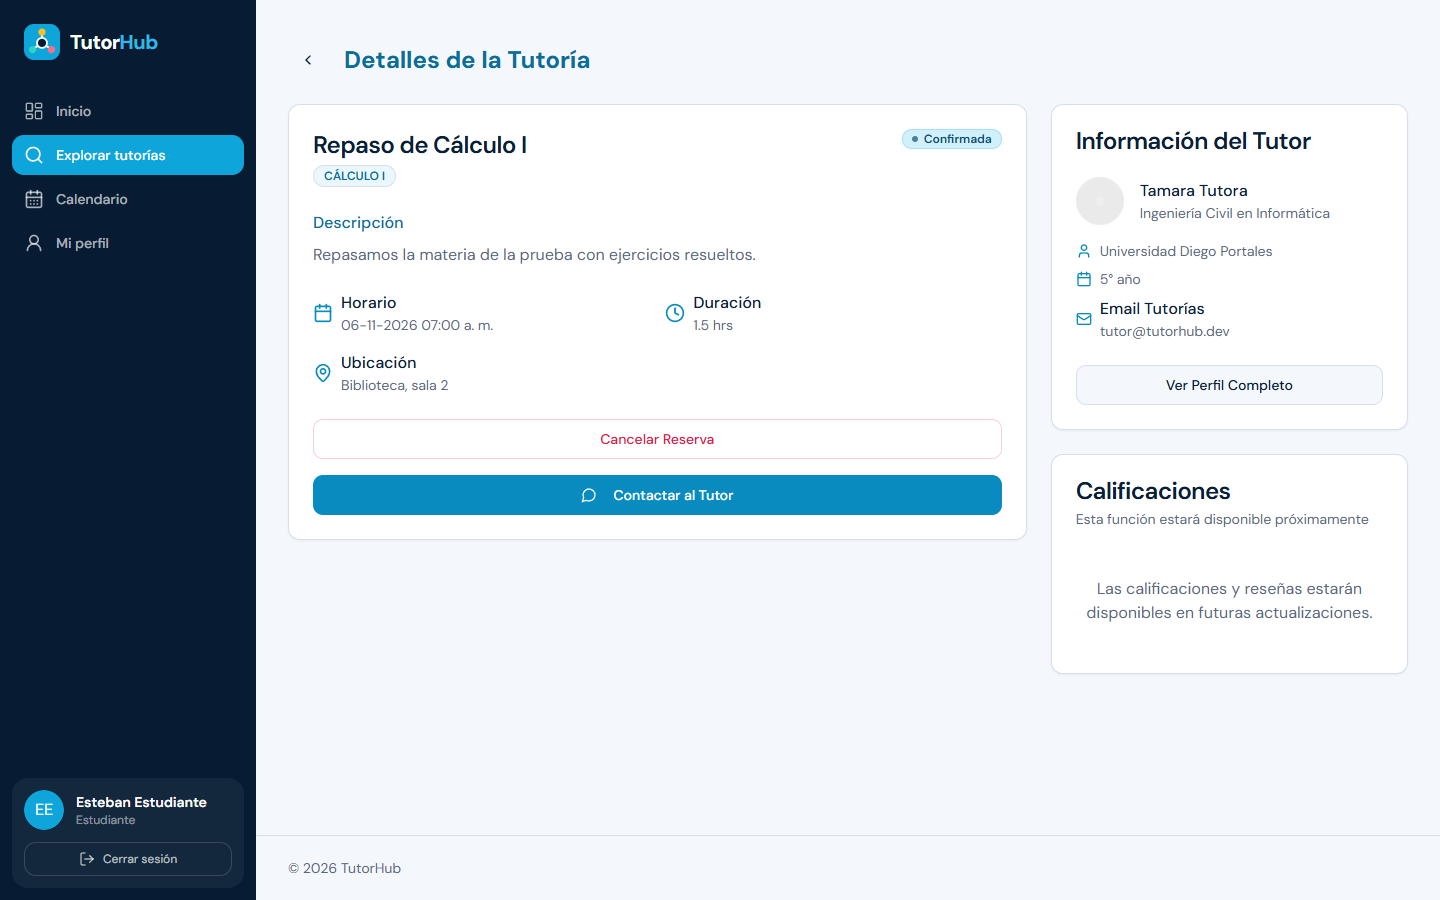
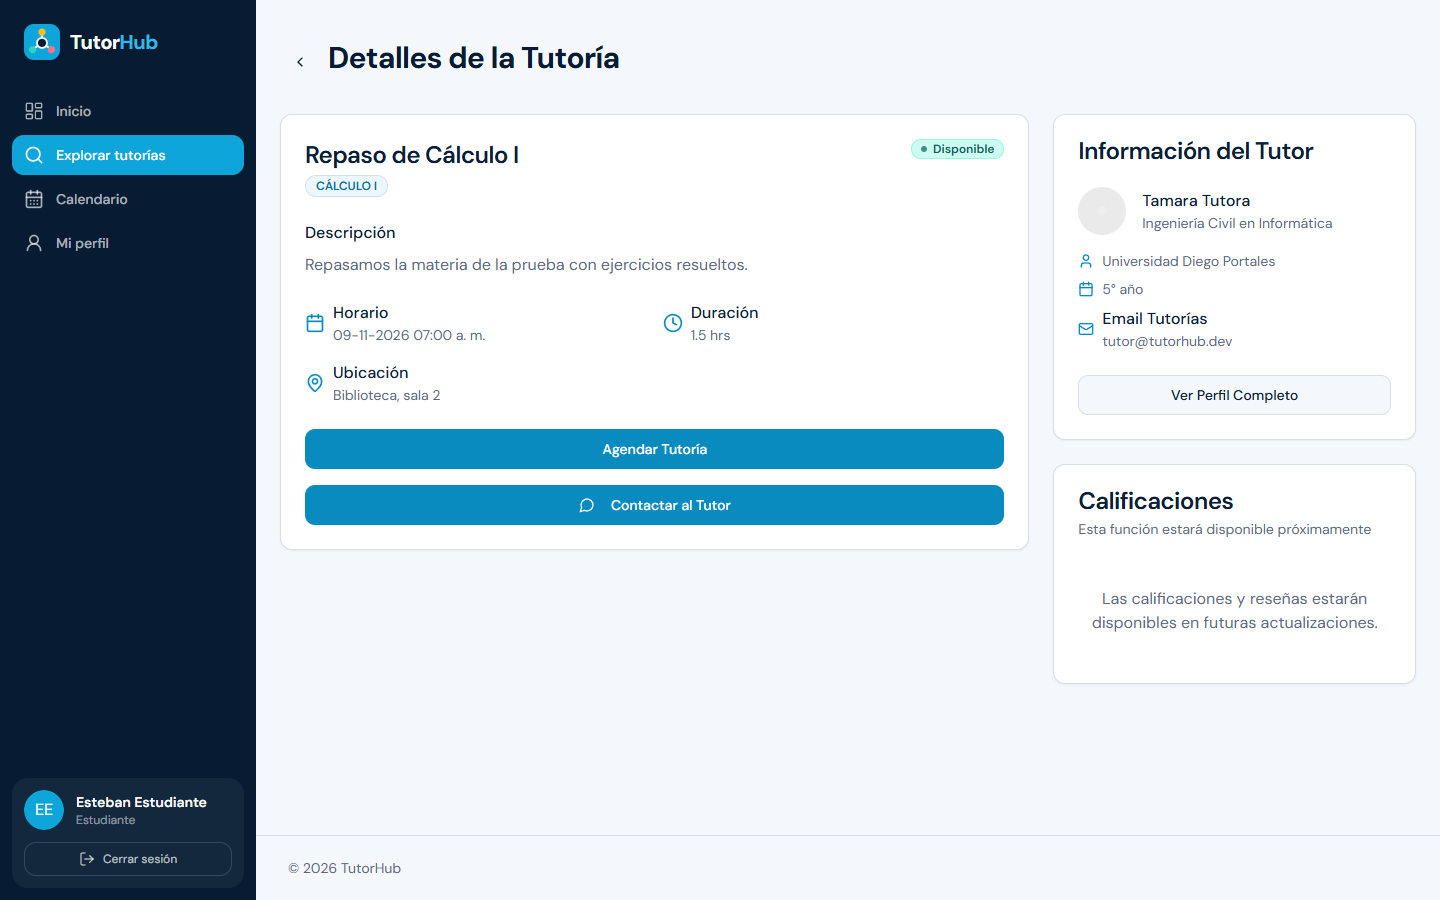
docs: captura nueva del detalle de tutoría y archivo de la anterior
La captura anterior pasa a docs/screenshots/v1 con git mv; la nueva queda en la misma ruta, así el README no cambia sus enlaces.

diff --git a/README.md b/README.md
@@ -16,7 +16,7 @@
 |:---:|:---:|
 | ![Dashboard del estudiante con tarjetas de estadísticas y próximas tutorías](docs/screenshots/dashboard-estudiante.png) | ![Dashboard del tutor con sesiones próximas y estadísticas](docs/screenshots/dashboard-tutor.png) |
 | **Explorar tutorías** | **Detalle de una tutoría** |
-| ![Listado de tutorías disponibles](docs/screenshots/explorar.png) | ![Detalle de una tutoría confirmada con datos del tutor](docs/screenshots/detalle-tutoria.png) |
+| ![Listado de tutorías disponibles](docs/screenshots/explorar.png) | ![Detalle de una tutoría con su estado y los datos del tutor](docs/screenshots/detalle-tutoria.png) |
 | **Mis tutorías (tutor)** | **Inicio de sesión** |
 | ![Tarjetas de las tutorías del tutor con su estado](docs/screenshots/mis-tutorias.png) | ![Pantalla de login en dos columnas](docs/screenshots/login.png) |
 
@@ -25,6 +25,8 @@
   <br />
   <em>En el celular, la barra lateral se vuelve un menú desplegable.</em>
 </p>
+
+> Capturas de la versión anterior en [docs/screenshots/v1](docs/screenshots/v1).
 
 ## Origen
 
